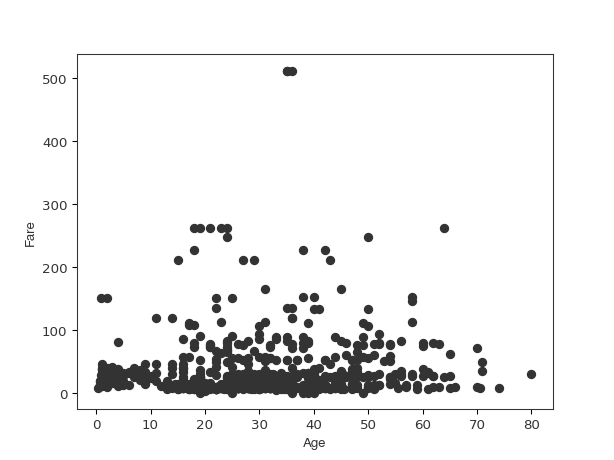
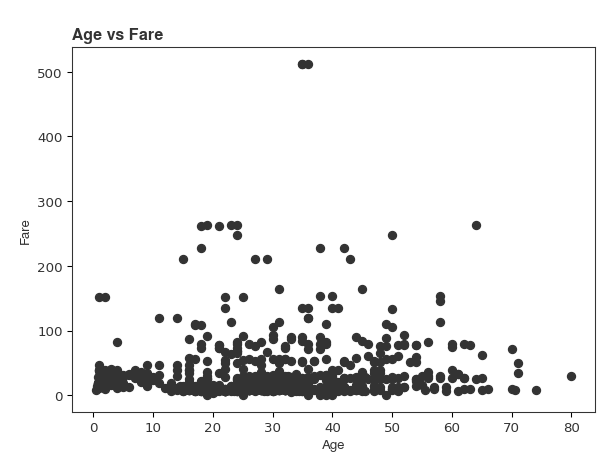
Add title style

diff --git a/src/prplot/chart.py b/src/prplot/chart.py
@@ -37,7 +37,14 @@ class Chart:
         ax = self.ax
 
         if 'title' in self.label:
-            ax.set_title(self.label['title'])
+            ax.set_title(
+                self.label['title'], 
+                loc=self.style.style['title']['position'], 
+                color=self.style.style['title']['color'], 
+                fontsize=self.style.style['title']['fontsize'], 
+                fontweight=self.style.style['title']['fontweight'], 
+                fontname=self.style.style['title']['fontname']
+            )
 
         if 'x' in self.label:
             ax.set_xlabel(self.label['x'])

diff --git a/tests/test_prplot.py b/tests/test_prplot.py
@@ -36,6 +36,9 @@ def test_chart_scatter():
             x='Age',
             y='Fare'
         )
+        .label(
+            title='Age vs Fare',
+        )
         .style(style)
         .plot(prc.plot.Scatter())
         .save('scatter.png')
@@ -50,6 +53,10 @@ def test_chart_boxplot():
         .bind(
             x='Sex',
             y='Fare'
+        )
+        .label(
+            title='Fare Boxplot',
+            y='Fare (USD)'
         )
         .plot(prc.plot.BoxPlot())
         .style(style)

diff --git a/src/prplot/style/grayscale.py b/src/prplot/style/grayscale.py
@@ -4,6 +4,13 @@ from .chart_style import ChartStyle
 class Grayscale(ChartStyle):
     def __init__(self):
         super().__init__(dict(
+            title = dict(
+                position = 'left',
+                color = '#333',
+                fontsize = 12,
+                fontweight = 'bold',
+                fontname = 'FreeSans'
+            ),
             axes = dict(
                 left = dict(
                     spine = dict(
